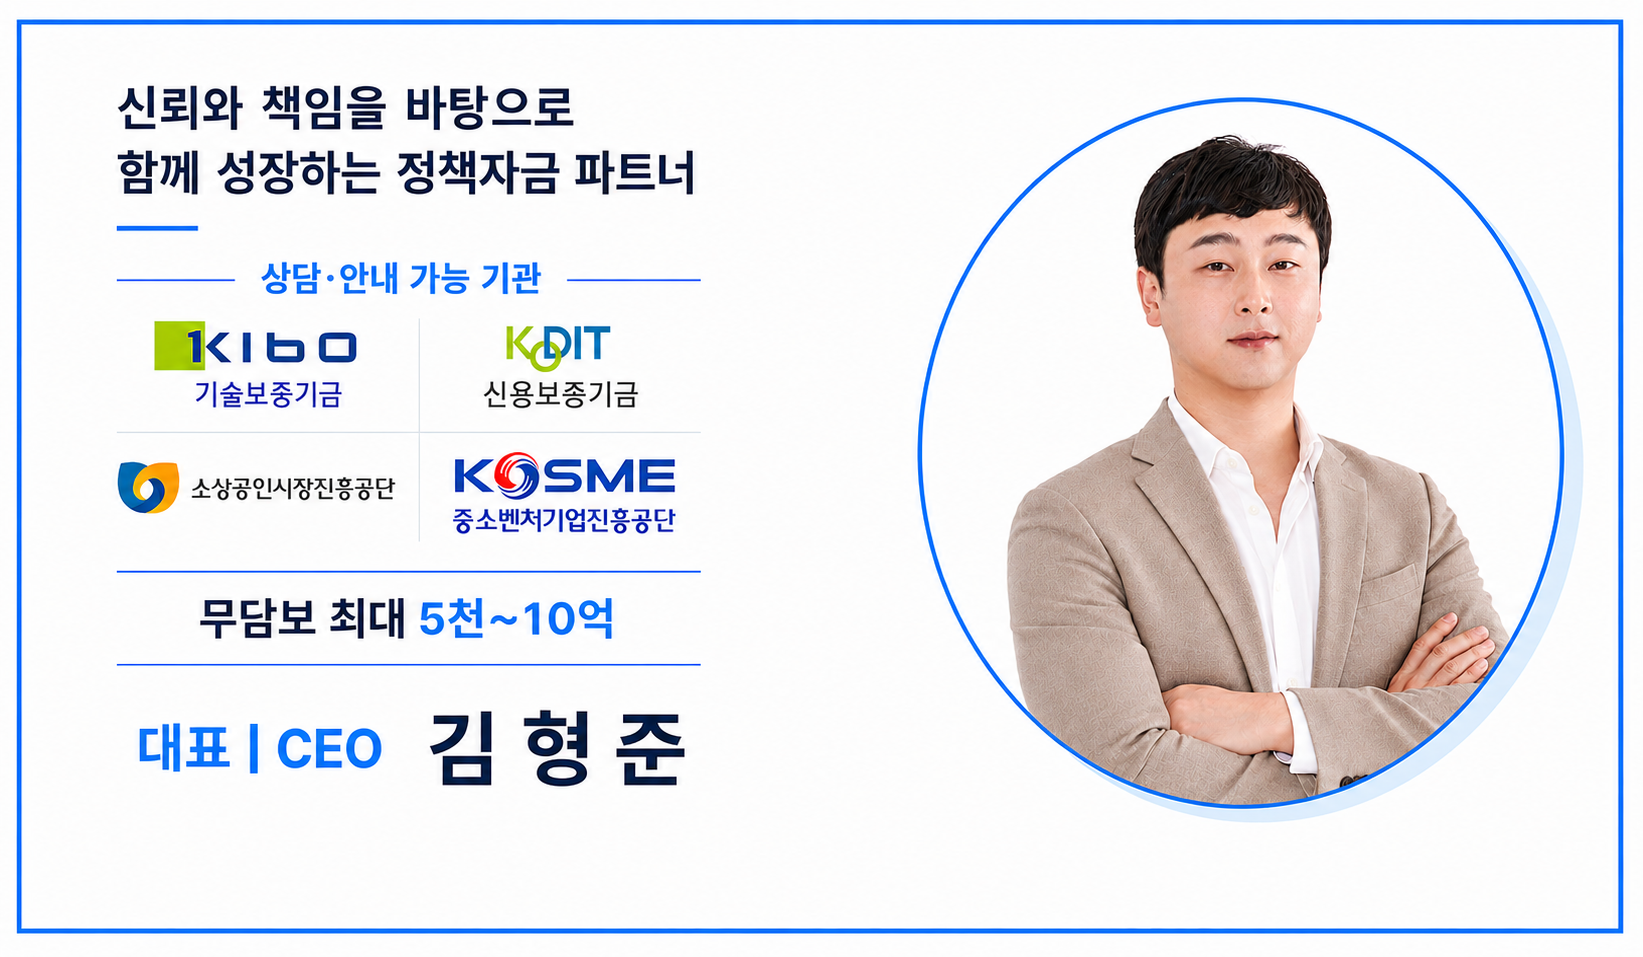
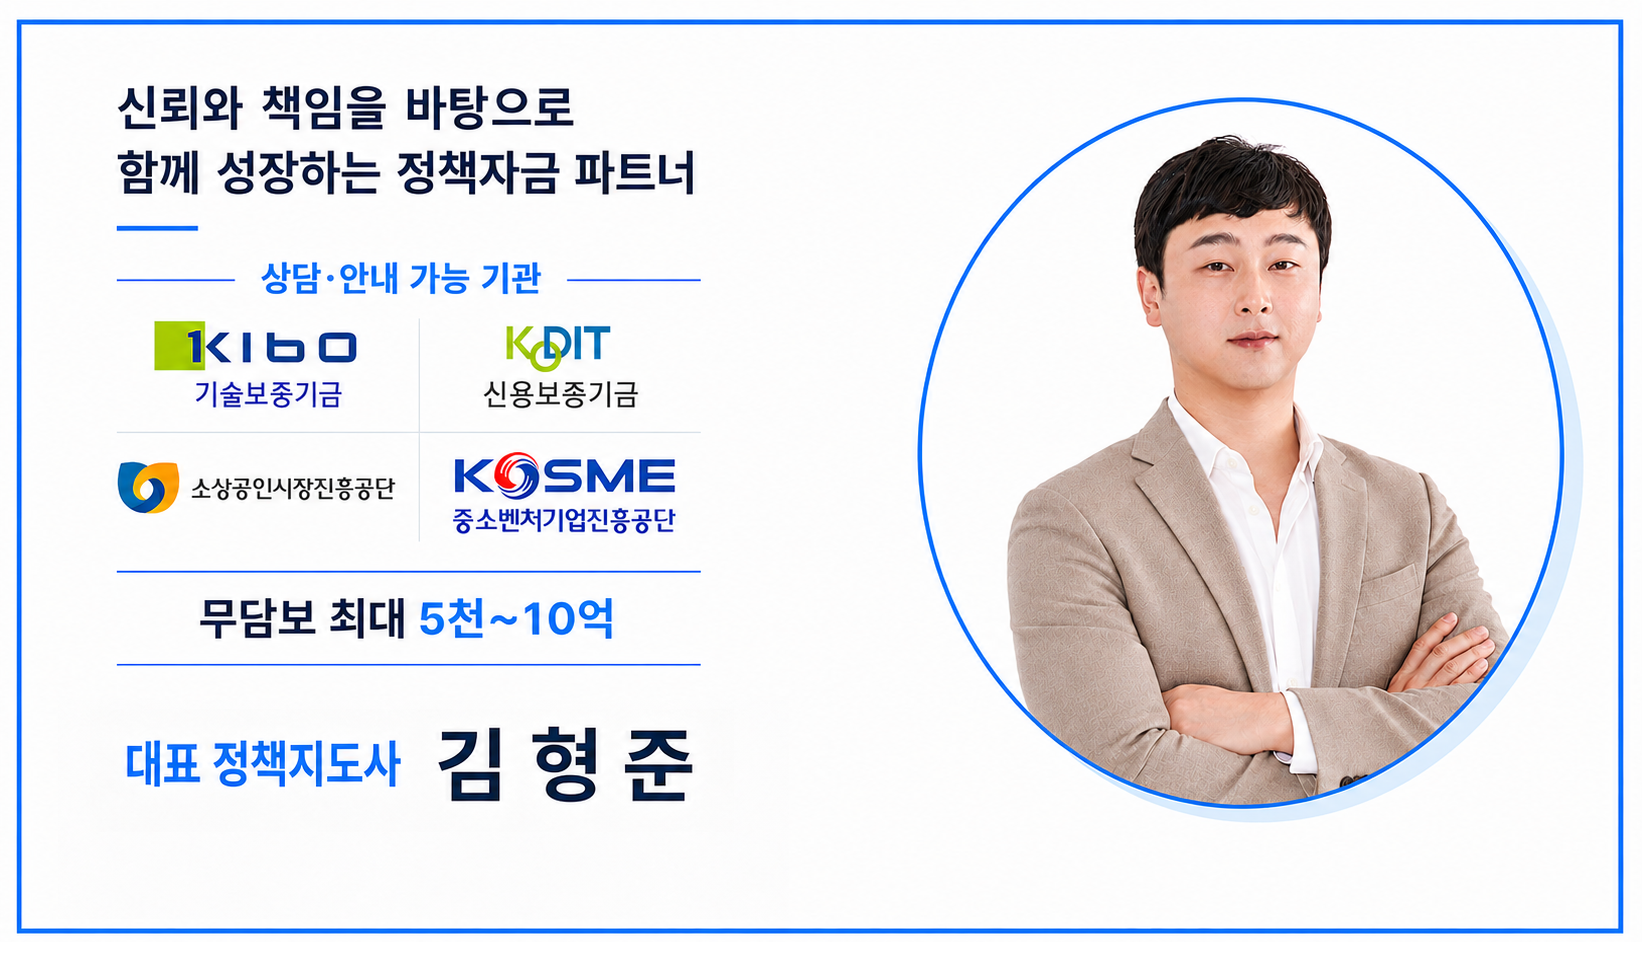
프로필 이미지를 '대표 정책지도사' 문구로 교체

diff --git a/draft-v2.html b/draft-v2.html
@@ -9,8 +9,8 @@
 <meta property="og:title" content="한국사업자성장연구소 | 정책자금 무료 상담">
 <meta property="og:description" content="정책자금, 제가 직접 찾아드립니다. 무담보 정책자금 무료 상담 신청.">
 <meta property="og:image" content="https://kbgc-flame.vercel.app/images/profile-card.png">
-<meta property="og:image:width" content="1643">
-<meta property="og:image:height" content="957">
+<meta property="og:image:width" content="1642">
+<meta property="og:image:height" content="962">
 <meta property="og:url" content="https://kbgc-flame.vercel.app/draft-v2.html">
 <meta name="twitter:card" content="summary_large_image">
 <style>

diff --git a/index.html b/index.html
@@ -9,8 +9,8 @@
 <meta property="og:title" content="한국사업자성장연구소 | 정책자금 무료 상담">
 <meta property="og:description" content="정책자금, 제가 직접 찾아드립니다. 무담보 정책자금 무료 상담 신청.">
 <meta property="og:image" content="https://kbgl-kr.vercel.app/images/profile-card.png">
-<meta property="og:image:width" content="1643">
-<meta property="og:image:height" content="957">
+<meta property="og:image:width" content="1642">
+<meta property="og:image:height" content="962">
 <meta property="og:url" content="https://kbgl-kr.vercel.app/">
 <meta name="twitter:card" content="summary_large_image">
 <style>
